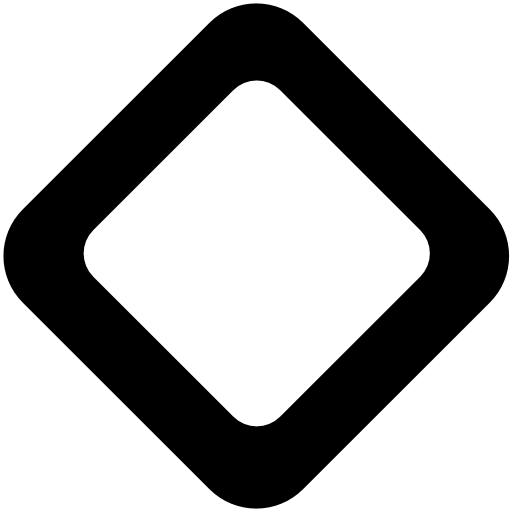
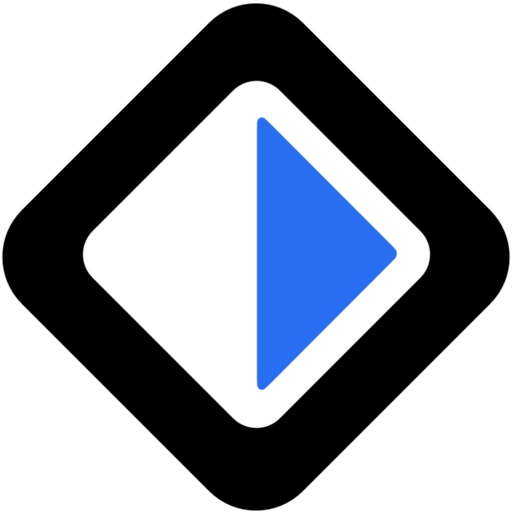
chore(project): rebrand to use base-web (#982)

diff --git a/documentation-site/pages/index.js b/documentation-site/pages/index.js
@@ -37,22 +37,22 @@ const cardOverrides = {
 
 const Index = (props: {contributors: Contributor[]}) => (
   <Layout>
-    <H4>Base UI React Components</H4>
+    <H4>Base Web React Components</H4>
     <Markdown.p>
-      Base UI is a foundation, a basis for initiating, evolving, and unifying
+      Base Web is a foundation, a basis for initiating, evolving, and unifying
       web products. The system is designed to be fully responsive and device
       agnostic providing designers and developers with a unique catalog of
       components.
     </Markdown.p>
 
-    <H6>Getting started with Base UI</H6>
+    <H6>Getting started with Base Web</H6>
 
     <Block display="flex" flexWrap>
-      <Card title="Installing Base UI" overrides={cardOverrides}>
+      <Card title="Installing Base Web" overrides={cardOverrides}>
         <StyledBody>
-          Base UI is distributed as an npm package. As Base UI is built on top
+          Base Web is distributed as an npm package. As Base Web is built on top
           of a CSS-in-JS engine, all you need is the dependencies from npm. Let
-          {"'"}s add Base UI to your project!
+          {"'"}s add Base to your project!
         </StyledBody>
         <StyledAction>
           <Block
@@ -60,17 +60,17 @@ const Index = (props: {contributors: Contributor[]}) => (
             href="/getting-started/installation"
             $style={{textDecoration: 'none'}}
           >
-            <Button style={{width: '100%'}}>Install Base UI</Button>
+            <Button style={{width: '100%'}}>Install Base Web</Button>
           </Block>
         </StyledAction>
       </Card>
 
-      <Card title="Learning Base UI" overrides={cardOverrides}>
+      <Card title="Learning Base Web" overrides={cardOverrides}>
         <StyledBody>
-          Probably the best way to learn Base UI is by start building an
+          Probably the best way to learn Base Web is by start building an
           application using it. On this page, you
           {"'"}
-          ll find a simple and a more complex app built using Base UI.
+          ll find a simple and a more complex app built using Base Web.
         </StyledBody>
         <StyledAction>
           <Block

diff --git a/documentation-site/components/layout.js b/documentation-site/components/layout.js
@@ -21,7 +21,7 @@ import {
 import ComponentMenu from './component-menu';
 import MarkdownElements from './markdown-elements';
 import Sidebar from './sidebar';
-import Logo from '../images/Logo.png';
+import Logo from '../images/base-web.svg';
 import GithubLogo from './github-logo';
 import SlackLogo from './slack-logo';
 import Search from './search';
@@ -48,7 +48,7 @@ export default (props: PropsT) => (
           <Link href="/" prefetch>
             <Block
               as="img"
-              height="29.25px"
+              height="40px"
               src={Logo}
               width="101px"
               overrides={{Block: {style: {cursor: 'pointer'}}}}

diff --git a/documentation-site/components/meta.js b/documentation-site/components/meta.js
@@ -13,8 +13,8 @@ import Head from 'next/head';
 
 const title =
   process.env.WEBSITE_ENV === 'production'
-    ? 'Base UI documentation'
-    : '[DEV] Base UI documentation';
+    ? 'Base Web documentation'
+    : '[DEV] Base Web documentation';
 
 export default () => (
   <Head>
@@ -47,7 +47,7 @@ export default () => (
       href="/static/safari-pinned-tab.svg"
       color="#5bbad5"
     />
-    <meta name="msapplication-TileColor" content="#da532c" />
+    <meta name="msapplication-TileColor" content="#ffffff" />
     <meta name="theme-color" content="#ffffff" />
   </Head>
 );

diff --git a/documentation-site/components/markdown-elements.js b/documentation-site/components/markdown-elements.js
@@ -113,7 +113,7 @@ export default {
   h1: ({children}: {children: React.Node}) => (
     <React.Fragment>
       <Head>
-        <title key="title">Base UI - {children}</title>
+        <title key="title">Base Web - {children}</title>
       </Head>
       <Heading element="h1" fontType="font700">
         {children}

diff --git a/examples/fusion/src/pages/home.js b/examples/fusion/src/pages/home.js
@@ -37,7 +37,7 @@ const Home = () => {
               Put something on my console!
             </Button>
           }
-          title="Hello from Base UI 👋"
+          title="Hello from Base Web 👋"
         >
           We glad you are here!
         </Card>

diff --git a/README.md b/README.md
@@ -1,12 +1,14 @@
-# BASE UI
+# Base Web
 
 [![Join Slack](https://img.shields.io/badge/Join%20us%20on-Slack-e01563.svg)](https://join.slack.com/t/baseui/shared_invite/enQtNDI0NTgwMjU0NDUyLTk3YzM1NWY2MjY3NTVjNjk3NzY1MTE5OTI4Y2Q2ZmVkMTUyNDc1MTcwYjZhYjlhOWQ2M2NjOWJkZmQyNjFlYTA) [![We are hiring](https://img.shields.io/badge/We%20are%20hiring-Join%20us!-blue.svg)](https://www.uber.com/careers/list/40899)
 
 [![Build status](https://badge.buildkite.com/92a7500cd98f619621c4801833d8b358c2fd79efc9b98f1b98.svg?branch=master)](https://buildkite.com/uberopensource/baseui)
 
-`baseui` is a design system comprised of modern, responsive, living components.
+**Base** is a design system comprised of modern, responsive, living components. Base Web is the React implementation of Base.
 
 ## Usage
+
+On npm, you can find Base Web as `baseui`.
 
 Add `baseui` and its peer dependencies to your project:
 

diff --git a/docs/migrations/00372.md b/docs/migrations/00372.md
@@ -2,7 +2,7 @@
 
 The purpose of this change was to converge on a standardized way of using change handlers.
 
-In Base UI we follow this event handler pattern:
+In Base Web we follow this event handler pattern:
 
 - for custom handlers, or handler overrides with custom logic, we use the `onChange({event, value})` method signature,
 - pass-through handlers, such as `onBlur` or `onMouseEnter` are not changed.

diff --git a/docs/event-handlers.md b/docs/event-handlers.md
@@ -1,6 +1,6 @@
-# Event Handler Usage in Base UI
+# Event Handler Usage in Base Web
 
-In Base UI we follow this event handler pattern:
+In Base Web we follow this event handler pattern:
 
 - custom handlers, or handler overrides with custom logic follow use the `onChange({event, value})` method signature,
 - pass-through handlers, such as `onBlur` or `onMouseEnter` are not changed.

diff --git a/examples/fusion/README.md b/examples/fusion/README.md
@@ -1,6 +1,6 @@
-# Fusion.js with Base UI
+# Fusion.js with Base Web
 
-Welcome to your Fusion.js application with Base UI.
+Welcome to your Fusion.js application with Base Web.
 
 Get started by running the application with `yarn dev` in a terminal.
 

diff --git a/.github/ISSUE_TEMPLATE/2.feature.md b/.github/ISSUE_TEMPLATE/2.feature.md
@@ -1,6 +1,6 @@
 ---
 name: Feature request
-about: Create feature request for Base UI
+about: Create feature request for Base Web
 ---
 
 <!--- Provide a general summary of the feature in the Title above -->

diff --git a/.github/ISSUE_TEMPLATE/1.bug.md b/.github/ISSUE_TEMPLATE/1.bug.md
@@ -1,6 +1,6 @@
 ---
 name: Bug report
-about: Create a bug report for Base UI
+about: Create a bug report for Base Web
 ---
 
 <!--- Provide a general summary of the issue in the Title above -->
